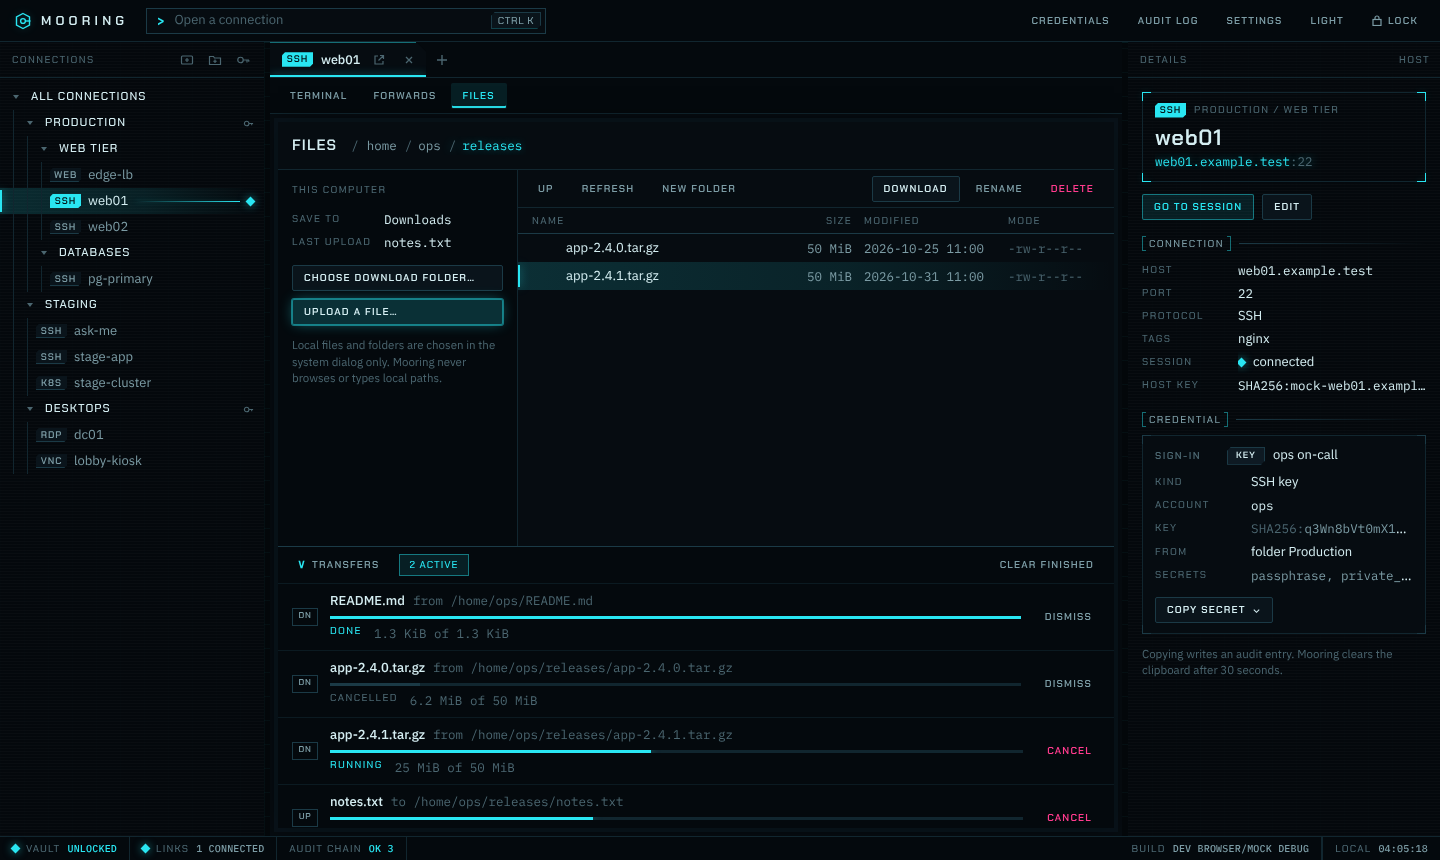
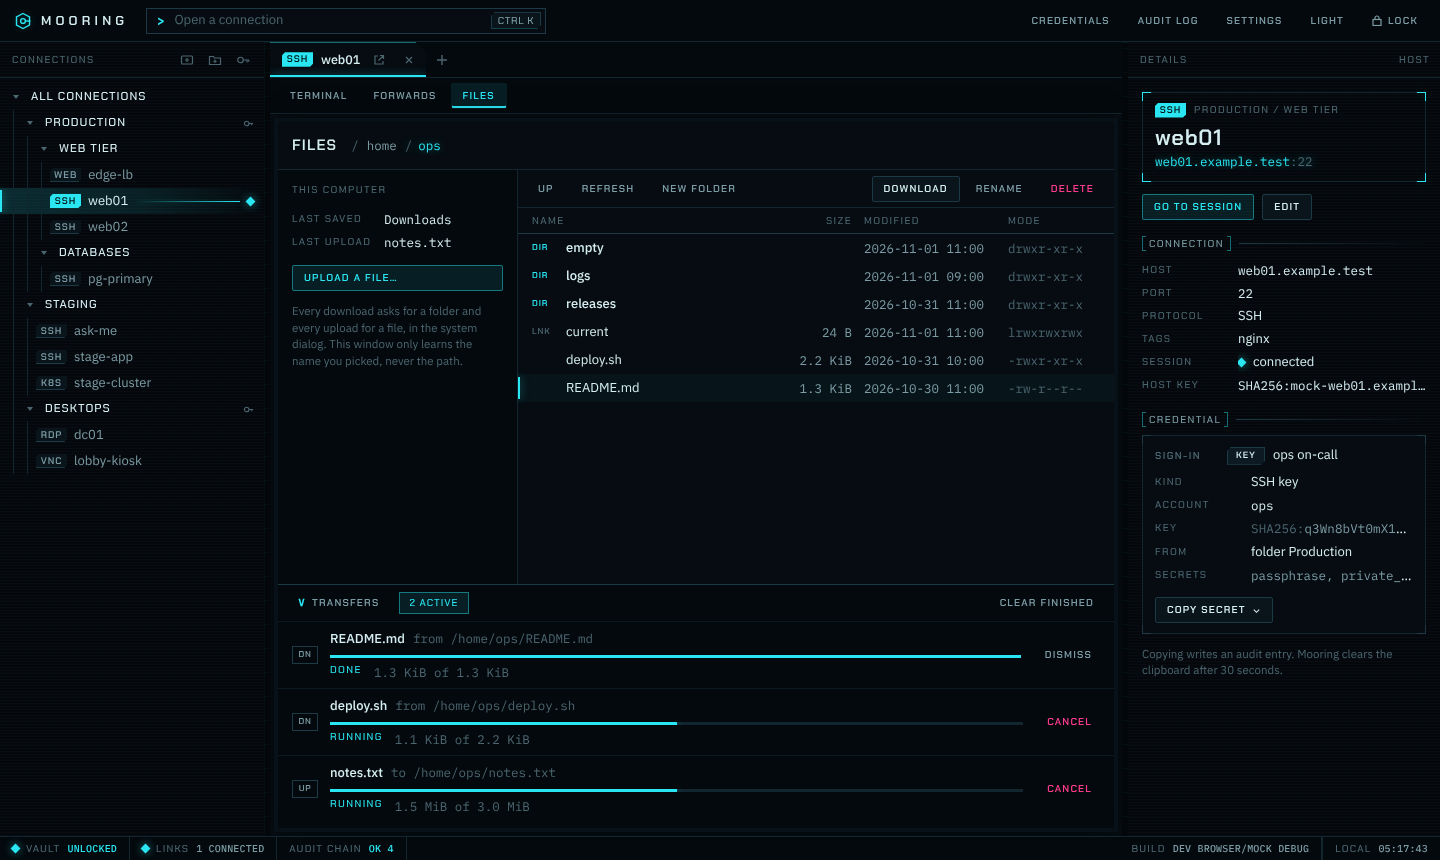
docs(handoff): refresh SFTP screenshots for the Rust-side picker (B-4)
03-sftp now shows the panel without a standing folder chooser, only the
picked names, and running download and upload rows; new
05-sftp-replace-confirm shows the "Replace <name>?" prompt on
sftp.exists. "Last saved to" is shortened to "Last saved" so the label
fits its column instead of wrapping.

Claude-Session: https://claude.ai/code/session_01Q95utkcvfowtW8dFWGCDbS

diff --git a/apps/desktop/src/components/sftp/SftpPanel.tsx b/apps/desktop/src/components/sftp/SftpPanel.tsx
@@ -94,7 +94,7 @@ function Browser({ sessionId }: { sessionId: string }) {
         <aside aria-label="This computer" className="sftp-local">
           <h3 className="m-micro">This computer</h3>
           <dl className="prop-grid mt-3">
-            <dt>Last saved to</dt>
+            <dt>Last saved</dt>
             <dd className="mono" title={lastFolder ?? undefined}>
               {lastFolder ?? <span className="text-text-faint">none</span>}
             </dd>
